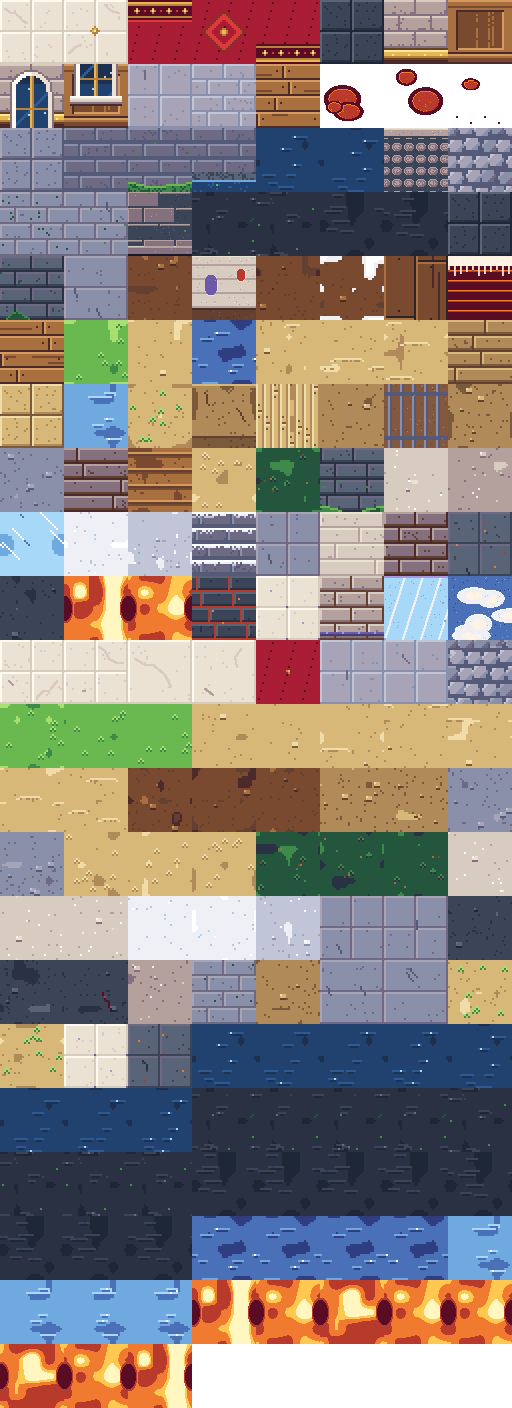
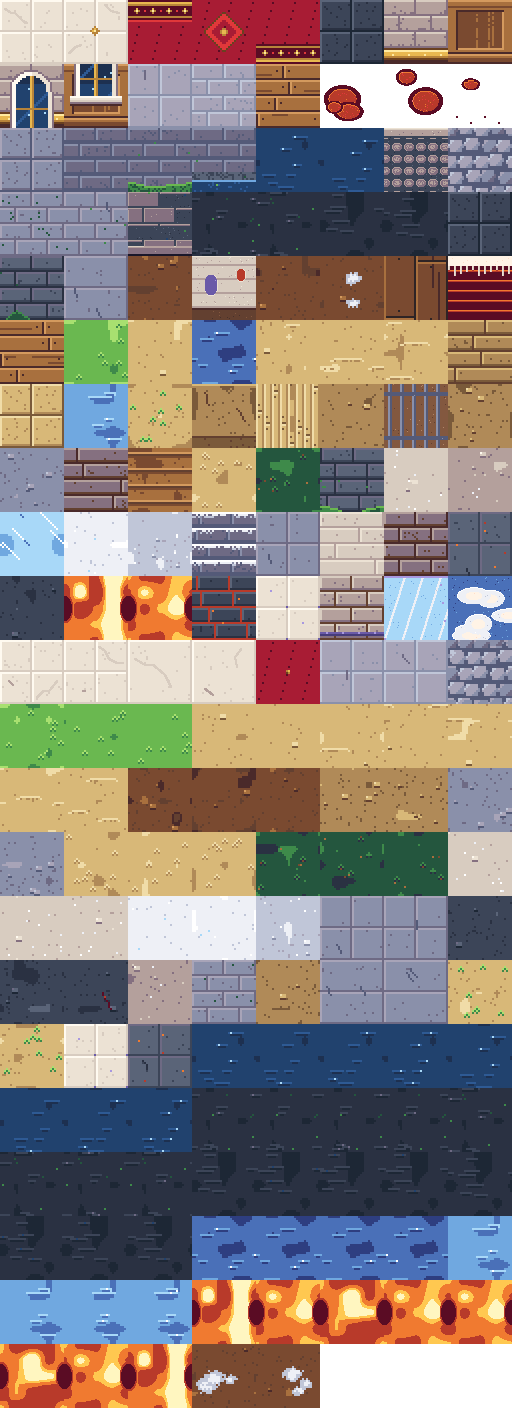
1차 점검(점검_결과.md): 자동 검사·문서 대조 표, 찾기 어려운 도착점에 바닥 옅은 빛, 빈민가 진흙 눈 타일이 칸마다 꺾쇠 격자로 보이던 것 다시 그림(갈래 mud_snow_v1·v2 맨 뒤에 덧붙임)

Changed region(s): [[0.375, 0.9375, 0.625, 1.0], [0.6562, 0.1562, 0.75, 0.2188], [0.625, 0.1562, 0.6562, 0.1875]]

diff --git a/src/explore/ExploreScene.ts b/src/explore/ExploreScene.ts
@@ -1591,6 +1591,14 @@ export class ExploreScene extends Phaser.Scene {
       this.untilLight = this.addLight(uo.x, uo.y - 10, 60, 0xfff0b0, 0.9, true)?.light;
       this.untilFx.push(glow, pin);
     }
+    // 도착점: 화면에서 찾기 어려울 수 있어 바닥에 은은한 빛 (말 걸기형·조사형 도착은 표시가 따로 있음)
+    const go = this.map ? findObj(this.map, 'goal', seg.goal) : undefined;
+    if (go && !propOf(go, 'press') && !seg.until) {
+      const r = Number(propOf(go, 'r') ?? 40);
+      const ring = this.world(this.add.ellipse(go.x, go.y, Math.min(64, r * 1.4), Math.min(30, r * 0.66), 0xfff3c4, 0.16).setDepth(go.y - 2).setBlendMode(Phaser.BlendModes.ADD));
+      this.tweens.add({ targets: ring, alpha: 0.05, scaleX: 1.15, scaleY: 1.15, duration: 1400, yoyo: true, repeat: -1, ease: 'Sine.inOut' });
+      this.untilFx.push(ring);
+    }
     this.mark?.destroy();
     this.mark = this.world(this.add.sprite(leon.spr.x, leon.spr.y - 44 - rise(leon.key), 'ex_look', 0).setDepth(9500).setAlpha(0).play('ex_look'));
     this.hud.setVisible(true);

diff --git a/docs/점검_결과.md b/docs/점검_결과.md
@@ -1,0 +1,63 @@
+# 전체 점검 결과
+
+> 기준: `docs/claude_code/전체_점검.md`. 회차마다 표를 아래에 쌓습니다. 요약은 마지막 회차가 끝난 뒤 맨 위에 적습니다.
+
+## 0. 밀린 작업
+
+| 문서 | 상태 | 확인·구현 |
+|---|---|---|
+| `1_3막_정리.md` | 이미 됨 | 1막 "탑주님", 2막 "…탑주님께." 대본 반영 확인 (`act1.json`, `act2.json`) |
+| `4막_구현.md` | 이미 됨 | 4막 데이터, 돌판 넷 필수 조사(`until`) 확인 |
+| `대본_서술_보강.md` | 됨 | `npm run script` 경고 0, `script:check` 모든 막 "모두 같음" |
+| `도트_마무리.md` | 이미 됨 | `docs/도트기준.md` 3-1 "없음", 예전 그림 `_old/` |
+| `상시_전투.md` | 이미 됨 | 이동 구간 위 전투, 화면 전환 없음, 체력 유지·50% 규칙 |
+| `점프_장애물.md` | 구현 (1fca9b3) | 9구간, Space 점프, 구덩이는 마지막 안전 자리로, 적은 못 넘음 |
+| `뒤로가기_선택지기록.md` | 구현 (f9e8151) | Backspace·◀ 뒤로, 선택지 (C), 고른 선택지 어둡게·본 엔딩 표시 |
+| `조사_기록.md` | 구현 (f9eb742) | J·조사 (J), 타이틀 "조사 기록", 다시 걷기 |
+| `막_전환_화면.md` | 구현 (4d8153f) | "○○ END" → 최대 레벨 해금 → 다음 막 제목 카드 |
+| `최대레벨_안내_수정.md` | 구현 (3035b0f) | "(최대 레벨: 1막을 마치면 반영)" |
+
+## 1차 점검: 자동 검사와 문서 대조
+
+| 항목 | 통과/문제 | 문제 내용 | 고친 파일 |
+|---|---|---|---|
+| A. `npm run script` 경고 | 통과 | 0 | |
+| A. `npm run script:check` | 통과 | 프롤로그~4막 모두 "모두 같음" | |
+| A. 복선 대사(프롤로그: 펜던트·잘린 어깨·피 묻은 검) | 통과 | 대사·조사 독백 모두 데이터에 있음(대본과 같음) | |
+| A. 복선(1막 "명목"·탑주님·표본 / 2막 빛의 기둥·깜빡임·보랏빛·"…탑주님께.") | 통과 | 데이터에 있음 | |
+| A. 복선(3막 펜던트 문양·"교회에도, 넘기지 마라."·맹세) | 통과 | "교회에도, 넘기지 마라." 독백은 `emphasis: faint`(3막_연출 6-2대로 흐린 글자) | |
+| A. 복선(4막 "잠든 이를 깨우소서"·돌판 넷·첫 거짓말·꿈 3·각인 무기) | 통과 | 데이터에 있음, 돌판은 `until` 순서 | |
+| A. 엔딩 6개 데이터 | 통과 | 6개 모두 label·title·epilogue·hint, 그림 `public/assets/endings/*.png`, act4_bad `retry: scene1` | |
+| A. 4막 자동 분기 | 통과 | scene10 #24: 둘 다 → e_stand / 하나 → e_together / 그 밖 → e_betray (세 갈래) | |
+| A. 플래그 저장 | 통과 | `elysia_route`(stay/die), `elysia_alive`, `galia_alive` 설정 확인 | |
+| A. 장소 이름(지역·세력) | 통과(질문 1) | 막 제목 카드 지역은 문서 표 그대로. "루멘 신성국 대성당"은 세력 이름+건물(연출 문서가 정한 장소 이름이라 그대로 둠, 아래 대본 확인 요청) | |
+| C. 막별 연출 표(1~4막_연출.md) | 통과 | 장면 명령 104개 모두 데이터와 일치(장면이 아닌 표: 맵·적·엔딩 목록은 제외) | |
+| C. 모든 구간 도착 가능(자동 검사) | 통과 | 30구간 시작→도착점 BFS 모두 닿음, 조사할 곳도 모두 닿음. 돌판 4구간은 도착점 없이 `until` 조사로 끝남 | |
+| C. 벽(solid) 수 비교 | 통과 | 37맵 모두 점프 장애물 이전(7c22614^)과 같은 수, 타일 이름 80개 순서 같음 | |
+| C. 찾기 어려운 도착점의 은은한 표시 | 문제→고침 | 도착점 표시가 없었음. `press`·`until`이 없는 구간의 도착점 바닥에 옅은 빛(천천히 숨 쉬듯) | `src/explore/ExploreScene.ts` |
+| C. 점프 장애물 배치 | 통과 | corridor 2, a1_sewer_deep 2, a1_slum 1, a2_desert_walk 2, a2_trade_route 2, a3_forest 4, a3_night 2, a4_pass 2, a4_volcano 3 (9구간) | |
+| D. `docs/도트기준.md` 3-1 | 통과 | "없음" | |
+| D. 맵 품질: 빈민가 진흙 눈(`mud_snow`) | 문제→고침 | 눈 얼룩이 칸 가장자리에 붙어 칸마다 같은 꺾쇠 모양이 반복(조명 아래 파랗게 격자로 보임). 그림만 다시: 칸 안쪽 작은 눈 덩어리 2~3개, 갈래 `mud_snow_v1·v2`를 맨 뒤에 덧붙임(앞 번호 그대로 확인) | `tools/pixel-art/hd/world.mjs`, `public/assets/explore/palace_tiles.png`, `src/data/explore/hd_sprites.json` |
+| E. 5막 필요한 것 | 정리 | 아래 "5막 필요한 것" (만들지 않음) | |
+| 기타 | 기록 | 탐색 키 1~4·Shift 없음(문서에 없는 기능이라 그대로), 콘솔의 텍스처 키 오류는 예전부터 있던 것, 일시정지 메뉴가 없어 선택지·조사 기록은 버튼·C/J·타이틀에서 엶 | |
+
+### 5막 필요한 것 (지금 엔진 기준)
+
+| 필요한 것 | 지금 엔진 | 더 만들어야 할 것 |
+|---|---|---|
+| 세레나 호감도 자동 분기(3 이상 / 1~2 / 0 이하) | 됨 | `branch`의 `affection` `>=`·`<=` 조건으로 바로 씀 |
+| 플래그 `told_withholding`, `adrian_joined`, `serena_shaken` | 됨 | `set` 플래그로 바로 씀 |
+| 조건부 막간(엘리시아가 남은 경우만) | 됨 | `branch` + `elysia_route == stay` |
+| 배드엔딩 "선택지로 돌아가기" → 장면 1 | 됨 | 엔딩 `retry`(4막과 같은 방식) |
+| "순례자는 뛰지 않는다" 구간 | 없음 | 지금은 Space 점프가 모든 구간에서 됨. 구간 설정(예: `noJump` 안내 글)과 근처 신도가 돌아보는 연출을 엔진에 더해야 함 |
+| 아드리안 합류 | 됨 | `join: adrian` |
+| 신성력 잃은 뒤 아드리안 스킬 바뀜 | 없음 | 인물 하나의 스킬 묶음을 바꾸는 명령이 없음(레온 각인 무기는 따로 만든 경우). 전투 인물 갈래(`adrian_blade` 같은)와 바꾸는 명령이 필요 |
+| 막간 둘(섭정의 편지, 하늘의 섬) | 됨 | 막간 연출(장소 이름·배경색) 그대로 |
+| 멍한 눈의 신도: 공격 않고 길만 막음 | 없음 | 전투에 "막기만 하는 적"(맞아도 밀려나기만) 종류가 필요 |
+| 마르키온 싸우지 않고 물러남 | 됨 | 무대 연출(`walk`) |
+| 그림: 귀를 감춘 순례자 카르크, 빛 의수의 마르키온, 멍한 눈 신도, 대성당 타일 | 없음 | 그림 새로 필요(지어내지 않고 목록만) |
+
+### 대본 확인 요청
+
+- 장소 "루멘 신성국 대성당"(2막 막간, 4막 막간 성전의 깃발): 세계관은 지역과 세력을 섞지 않는다고 하는데, 세력 이름 + 건물입니다. 성도 이름이 정해지면 "○○ 대성당"으로 바꿀지 확인 부탁드립니다.
+- 1막 장면 6의 첫 이동 구간(빈민가 골목, 맵 `slum_alley`) 동안 화면 왼쪽 위 장소 이름이 장면 장소 "아우렐 강 다리 검문소"로 나옵니다. 골목을 걷는 동안은 "황도 외곽 빈민가"가 맞는지 확인 부탁드립니다.
